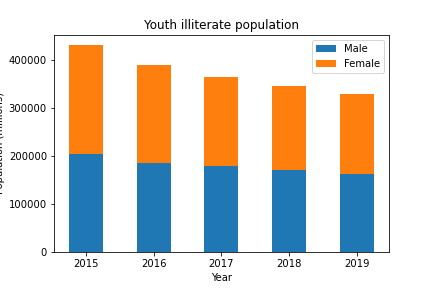
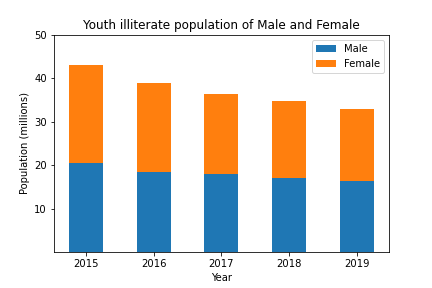
Updated Stacked Bar plot diagram

diff --git a/ADS1_Assignment1.py b/ADS1_Assignment1.py
@@ -97,8 +97,9 @@ def stackedBarPlot(df):
     plt.title("Youth illiterate population of Male and Female")
     plt.xlabel("Year")
     plt.ylabel("Population (millions)")
+    
     plt.ylim(0, 500000)
-    plt.yticks([100000, 200000, 300000, 400000], [10, 20, 30, 40])
+    plt.yticks([100000, 200000, 300000, 400000,500000], [10, 20, 30, 40,50])
     plt.legend()
     plt.savefig("StackedBarPlot.png")
     plt.show()
